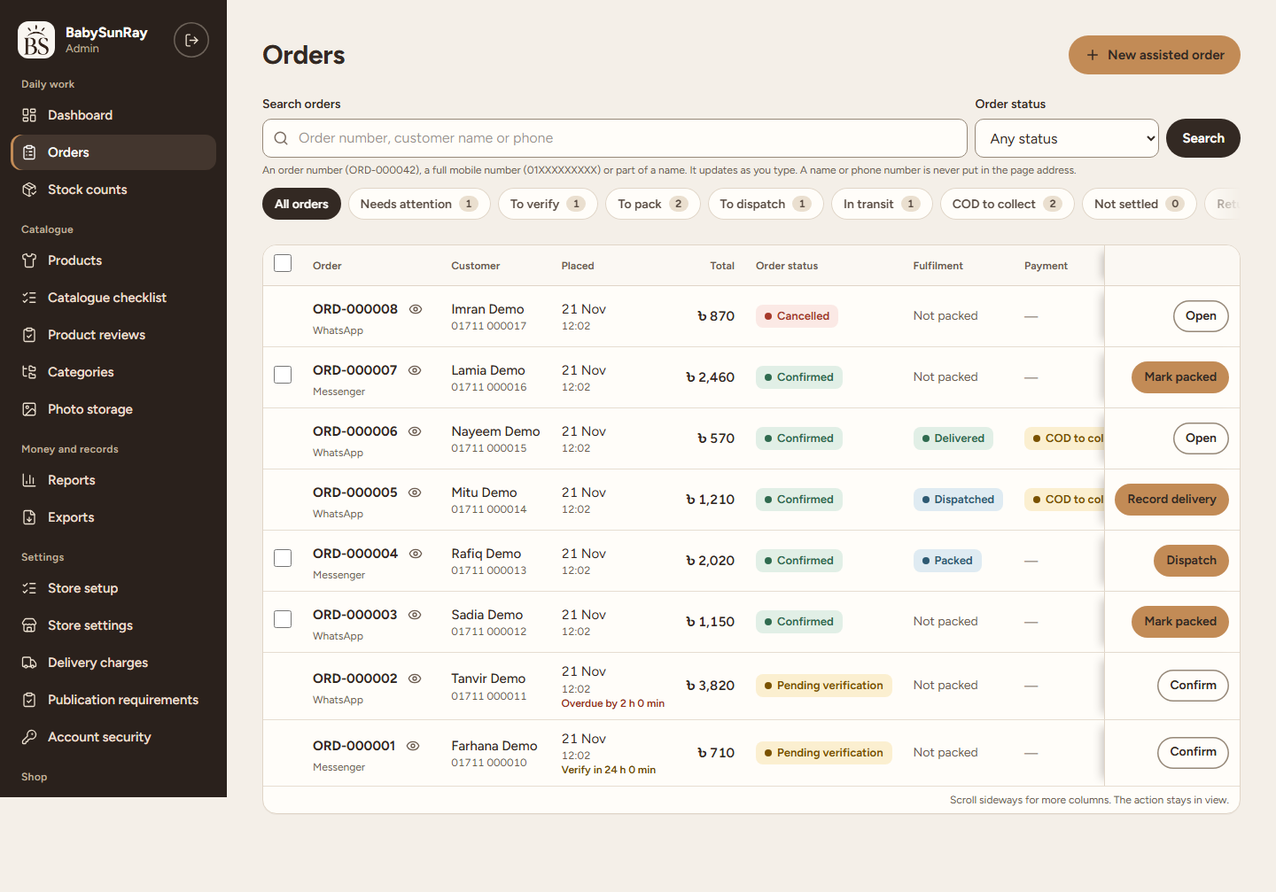
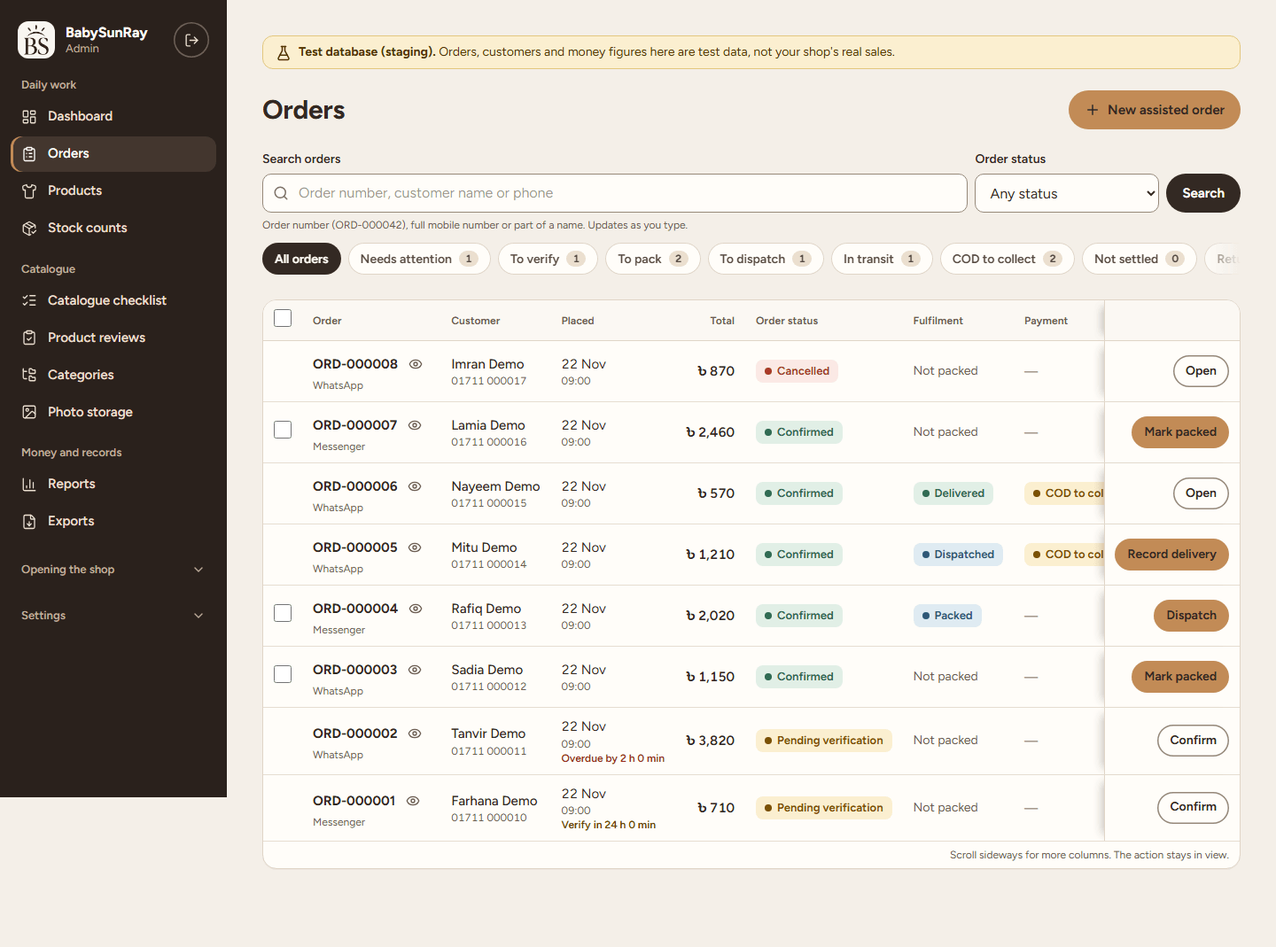
docs: README status and screenshots, verified hosting state, guides
README: refreshed screenshots from the browser tests (fictional data,
optimised from about 200 KB to 55-87 KB each), a clear status table (built,
on private staging, not public, not built) and plainer wording about
optional services. infrastructure.md: the verified Netlify staging state
replaces "nothing is deployed", with the old statement kept as a dated note.
CLAUDE.md: hosting facts, migration 0023, reports in English, and the
Windows drive-letter requirement for test:db. User guide, Admin reference
and design system: social links, the footer contact column and the
policies overview.

diff --git a/CLAUDE.md b/CLAUDE.md
@@ -2,9 +2,9 @@
 
 Bilingual (Bangla/English) e-commerce website and private BabySunRay Admin for BabySunray, a single-founder baby and kidswear business in Bangladesh.
 
-**Phase:** foundation and decisions. The Git repository is private on GitHub (`rkRashik/babysunray-commerce`, branch `main`). The Next.js app is scaffolded as an engineering base only; `src/app/page.tsx` is a status page, not the approved homepage. The catalogue and stock schema (`src/db/schema.ts`, migrations in `drizzle/`), their internal services (`src/modules/`), the authentication and authorisation foundation (`src/modules/auth`, Better Auth routes under `/api/auth`), operation-level idempotency (`src/modules/idempotency`, ADR-0005) and an Owner-only, Bearer-authenticated `/api/v1` with draft-catalogue and stock writes, body limits, no CORS and per-user rate limits (`src/api/v1`, `src/app/api/v1`, `docs/api/README.md`) exist, as does a minimal functional BabySunRay Admin at `/admin` (`src/app/admin`: sign-in, product search, products, variants, draft editing with optimistic versions, stock; Server Actions call the shared operations directly; not an approved design; real-browser tests in `tests/e2e`), as does a local-only Owner password reset CLI, and internal orders under the founder-approved rules in `docs/product/order-policy-decisions.md` (`src/modules/orders`: Owner-assisted orders, reservations, verification expiry, cancellation, fulfilment, COD, returns, RTO, guest tracking at `/track`; Owner API under `/api/v1/orders`; Admin at `/admin/orders`), and Owner operations (dashboard, reports, XLSX/CSV/JSON exports with an audit log, physical stock counts and print views: `src/modules/reports`, `src/modules/exports`, `src/modules/inventory/counts.ts`, `/admin/dashboard`, `/admin/reports`, `/admin/exports`, `/admin/stock-counts`, `/admin/print`) and local encrypted backup tooling with a restore drill on fictional data (`src/db/backup.mts`, `docs/operations/runbook.md`), and structured bilingual product content with categories, a size chart, an advisory readiness checklist and Owner-only product photos in a local development folder outside the repository (`src/modules/catalogue/content.ts`, `readiness.ts`, `src/modules/media`, ADR-0006), and an Owner-only bulk import of new draft products from CSV or XLSX (create-only, previewed, all or nothing; `docs/operations/catalogue-import.md`) with a catalogue preparation overview, and an Owner-only bilingual storefront preview with a cart and a checkout simulation that records nothing (`/admin/storefront-preview`, `src/modules/storefront`; prototype, not an approved design, not public), and per-installation shop identity settings with neutral defaults (`src/config/installation.ts`, `STORE_*`; `docs/operations/installation.md`), and the real shop at `/en` and `/bn` (published products only, the same First Light components as the preview) with a real guest Cash on Delivery checkout (`POST /api/shop/checkout`, transport `src/api/guest-checkout.ts`, service `src/modules/orders/guest-checkout.ts`; ADR-0007), browser installation (first Owner at `/admin/setup` with a setup grant, recovery codes at `/admin/recover`, a store setup checklist, store settings and Owner-approved publication requirements; ADR-0012, `docs/operations/installation-production.md`), customer accounts with Google or email and password (verification and reset by Resend email when `RESEND_API_KEY` and `EMAIL_FROM` are set) as a separate Better Auth instance (`src/modules/customers`, `/api/customer-auth`, callback `/api/auth/callback/google`), product publish and withdraw, and founder-approved policy publication, all reachable only through founder acceptance: an Owner-started pass on the staging-marked database (`src/modules/launch/acceptance.ts`, `/admin/acceptance`; ADR-0011, `docs/operations/acceptance.md`), a public launch gate that always refuses (`src/modules/launch/gate.ts`), Owner-only launch readiness, policy drafts and internal product reviews (`/admin/launch-readiness`, `/admin/policies`, `/admin/product-reviews`; `docs/operations/launch-readiness.md`), the First Light design, chosen by the founder for implementation (mobile first, Base UI sheets, Embla gallery, self-hosted OFL fonts, the installation's logo files in `public/brand/`; one design system across the Owner-only storefront preview, the guest tracking page and every BabySunRay Admin page; `docs/design/storefront-design-system.md`; open decisions in `docs/product/storefront-launch-decisions.md`), a backup-pair recovery check and a performance benchmark on fictional data (`docs/operations/performance.md`), and hosting-compatibility foundations that nothing uses yet (settings for serverless functions and a transaction-mode pooler, a Supabase Storage photo adapter, secret-protected HTTP maintenance that is off by default, liveness and readiness probes, a published-only photo transport at `/api/public/media/{id}`, open only with the shop (503 before any data is touched); `docs/operations/infrastructure.md`, tested locally and with mocks only), and Cloudinary CDN copies of published product photos only (inactive without `CLOUDINARY_*`; ADR-0010), and a hosted database security boundary with staging-only migration, backup and verification commands (ADR-0009, `docs/operations/staging-setup.md`). The site is deployed on Netlify behind visitor protection and connected to the staging database. Public (non-acceptance) checkout, online payments, courier or messaging integrations, production account recovery, 2FA, a production scheduler, a backup schedule or off-device copy, and a production database do not exist. The local databases are created by the founder from `db/local-setup.sql`. Do not create the rest unless the current gate authorises it.
+**Phase:** foundation and decisions. The Git repository is private on GitHub (`rkRashik/babysunray-commerce`, branch `main`). The Next.js app is scaffolded as an engineering base only; `src/app/page.tsx` is a status page, not the approved homepage. The catalogue and stock schema (`src/db/schema.ts`, migrations in `drizzle/`), their internal services (`src/modules/`), the authentication and authorisation foundation (`src/modules/auth`, Better Auth routes under `/api/auth`), operation-level idempotency (`src/modules/idempotency`, ADR-0005) and an Owner-only, Bearer-authenticated `/api/v1` with draft-catalogue and stock writes, body limits, no CORS and per-user rate limits (`src/api/v1`, `src/app/api/v1`, `docs/api/README.md`) exist, as does a minimal functional BabySunRay Admin at `/admin` (`src/app/admin`: sign-in, product search, products, variants, draft editing with optimistic versions, stock; Server Actions call the shared operations directly; not an approved design; real-browser tests in `tests/e2e`), as does a local-only Owner password reset CLI, and internal orders under the founder-approved rules in `docs/product/order-policy-decisions.md` (`src/modules/orders`: Owner-assisted orders, reservations, verification expiry, cancellation, fulfilment, COD, returns, RTO, guest tracking at `/track`; Owner API under `/api/v1/orders`; Admin at `/admin/orders`), and Owner operations (dashboard, reports, XLSX/CSV/JSON exports with an audit log, physical stock counts and print views: `src/modules/reports`, `src/modules/exports`, `src/modules/inventory/counts.ts`, `/admin/dashboard`, `/admin/reports`, `/admin/exports`, `/admin/stock-counts`, `/admin/print`) and local encrypted backup tooling with a restore drill on fictional data (`src/db/backup.mts`, `docs/operations/runbook.md`), and structured bilingual product content with categories, a size chart, an advisory readiness checklist and Owner-only product photos in a local development folder outside the repository (`src/modules/catalogue/content.ts`, `readiness.ts`, `src/modules/media`, ADR-0006), and an Owner-only bulk import of new draft products from CSV or XLSX (create-only, previewed, all or nothing; `docs/operations/catalogue-import.md`) with a catalogue preparation overview, and an Owner-only bilingual storefront preview with a cart and a checkout simulation that records nothing (`/admin/storefront-preview`, `src/modules/storefront`; prototype, not an approved design, not public), and per-installation shop identity settings with neutral defaults (`src/config/installation.ts`, `STORE_*`; `docs/operations/installation.md`), and the real shop at `/en` and `/bn` (published products only, the same First Light components as the preview) with a real guest Cash on Delivery checkout (`POST /api/shop/checkout`, transport `src/api/guest-checkout.ts`, service `src/modules/orders/guest-checkout.ts`; ADR-0007), browser installation (first Owner at `/admin/setup` with a setup grant, recovery codes at `/admin/recover`, a store setup checklist, store settings and Owner-approved publication requirements; ADR-0012, `docs/operations/installation-production.md`), customer accounts with Google or email and password (verification and reset by Resend email when `RESEND_API_KEY` and `EMAIL_FROM` are set) as a separate Better Auth instance (`src/modules/customers`, `/api/customer-auth`, callback `/api/auth/callback/google`), product publish and withdraw, and founder-approved policy publication, all reachable only through founder acceptance: an Owner-started pass on the staging-marked database (`src/modules/launch/acceptance.ts`, `/admin/acceptance`; ADR-0011, `docs/operations/acceptance.md`), a public launch gate that always refuses (`src/modules/launch/gate.ts`), Owner-only launch readiness, policy drafts and internal product reviews (`/admin/launch-readiness`, `/admin/policies`, `/admin/product-reviews`; `docs/operations/launch-readiness.md`), the First Light design, chosen by the founder for implementation (mobile first, Base UI sheets, Embla gallery, self-hosted OFL fonts, the installation's logo files in `public/brand/`; one design system across the Owner-only storefront preview, the guest tracking page and every BabySunRay Admin page; `docs/design/storefront-design-system.md`; open decisions in `docs/product/storefront-launch-decisions.md`), a backup-pair recovery check and a performance benchmark on fictional data (`docs/operations/performance.md`), and hosting-compatibility foundations that nothing uses yet (settings for serverless functions and a transaction-mode pooler, a Supabase Storage photo adapter, secret-protected HTTP maintenance that is off by default, liveness and readiness probes, a published-only photo transport at `/api/public/media/{id}`, open only with the shop (503 before any data is touched); `docs/operations/infrastructure.md`, tested locally and with mocks only), and Cloudinary CDN copies of published product photos only (inactive without `CLOUDINARY_*`; ADR-0010), and a hosted database security boundary with staging-only migration, backup and verification commands (ADR-0009, `docs/operations/staging-setup.md`). The site is deployed on Netlify behind visitor protection and connected to the staging database: the Netlify project's production and preview visibility is Private (Netlify team members only), its deploy logs are private, and only `main` deploys. Optional Facebook and Instagram links in Store settings need migration 0023 on each database; until a database has it, the Social links card says so and everything else works (`src/modules/settings/store.ts` checks the columns before reading them). Public (non-acceptance) checkout, online payments, courier or messaging integrations, production account recovery, 2FA, a production scheduler, a backup schedule or off-device copy, and a production database do not exist. The local databases are created by the founder from `db/local-setup.sql`. Do not create the rest unless the current gate authorises it.
 
-Commands (see docs/getting-started.md, section 6): `npm install`, `npm run dev`, `npm run typecheck`, `npm run lint`, `npm run build`, `npm test` (unit), `npm run test:db` (PostgreSQL integration; needs `TEST_DATABASE_URL`, local `babysunray_test` database and role only), `npm run db:generate`, `npm run db:check`, `npm run db:migrate` (only the local `babysunray_dev` database; it verifies the target and refuses anything else), `npm run test:contract` (OpenAPI validity and every `/api/v1` endpoint against it), `npm run test:e2e` (BabySunRay Admin in real Chromium against `babysunray_test`; starts its own server, never stops another), `npm run test:e2e:prod` (the same against a production build behind a local TLS proxy), `npm run test:install` (rehearses a separate, rebranded installation: a clean clone of the committed HEAD in a temporary folder, offline `npm ci`, its drills, a fresh `babysunray_test` schema and every browser test against its production build), `npm run backup:drill` (backup and restore drill on fictional data; empties and restores `babysunray_test` under the test lock), `npm run backup:create`, `npm run backup:verify` and `npm run backup:restore` (interactive passphrase; the founder runs them, never on their behalf; restore only into an empty `babysunray_restore`), `npm run config:check` (reports which settings are set and valid, database reachability and migrations; prints no values, changes nothing), `npm run auth:bootstrap-owner` (creates the first Owner; interactive, for the founder to run; never run it or choose credentials on the founder's behalf), `npm run auth:reset-owner-password` (local-only Owner password reset; same rule: the founder runs it, never on their behalf), `npm run orders:expire-verification` (local verification-expiry batch, `babysunray_dev` only), `npm run media:verify` (read-only check of the photo manifest against `MEDIA_STORAGE_DIR`), `npm run media:backup`, `npm run media:backup:verify` and `npm run media:restore` (encrypted photo backups; interactive passphrase; the founder runs them, never on their behalf; restore only into an empty folder), `npm run media:drill` (photo backup and restore drill on fictional photos in `babysunray_test`), `npm run recovery:check` (read-only check that a restored `babysunray_restore` matches a photo backup; interactive passphrases; the founder runs it, never on their behalf), `npm run perf:bench` (performance benchmark on fictional data in `babysunray_test` only), `npm run staging:preflight` (no network; which staging settings are missing, no values), `npm run staging:setup` (repairs `.env.staging.local` URL encoding and derives the project URL; hidden prompt for the Supabase keys; prints names only, no network), `npm run migrations:review [-- --after <n>]` (text-only check of drizzle/*.sql for non-additive statements; connects to nothing), `npm run backup:status -- --dir <folder> --max-age-hours <n>` (backup freshness from headers; no passphrase, deletes nothing), `npm run netlify:env -- --out <file> --url <https origin>` (writes the application's Netlify variables from the staging file as an importable .env: no administrator connection; prints names only; the founder deletes the file after import), `npm run db:migrate:staging`, `npm run backup:create:production`, `npm run db:migrate:production` (a database marked production only), `npm run auth:bootstrap-owner:staging`, `npm run backup:create:staging`, `npm run media:verify:staging`, `npm run media:backup:staging` and `npm run test:staging` (a hosted Supabase STAGING project only, marked by the founder; interactive or founder-configured; the founder runs them, never on their behalf; never read `.env.staging.local`; `docs/operations/staging-setup.md`). Never point tests at a development, shared or hosted database. Run migrations only through `npm run db:migrate`, never `drizzle-kit push`, `drizzle-kit migrate` or `auth migrate` (the project config refuses the drizzle-kit ones).
+Commands (see docs/getting-started.md, section 6): `npm install`, `npm run dev`, `npm run typecheck`, `npm run lint`, `npm run build`, `npm test` (unit), `npm run test:db` (PostgreSQL integration; needs `TEST_DATABASE_URL`, local `babysunray_test` database and role only; on Windows run it from a working directory spelled with an upper-case drive letter, `D:\…`: with `d:\…` Vitest loads twice and every file fails with "failed to find the runner"), `npm run db:generate`, `npm run db:check`, `npm run db:migrate` (only the local `babysunray_dev` database; it verifies the target and refuses anything else), `npm run test:contract` (OpenAPI validity and every `/api/v1` endpoint against it), `npm run test:e2e` (BabySunRay Admin in real Chromium against `babysunray_test`; starts its own server, never stops another), `npm run test:e2e:prod` (the same against a production build behind a local TLS proxy), `npm run test:install` (rehearses a separate, rebranded installation: a clean clone of the committed HEAD in a temporary folder, offline `npm ci`, its drills, a fresh `babysunray_test` schema and every browser test against its production build), `npm run backup:drill` (backup and restore drill on fictional data; empties and restores `babysunray_test` under the test lock), `npm run backup:create`, `npm run backup:verify` and `npm run backup:restore` (interactive passphrase; the founder runs them, never on their behalf; restore only into an empty `babysunray_restore`), `npm run config:check` (reports which settings are set and valid, database reachability and migrations; prints no values, changes nothing), `npm run auth:bootstrap-owner` (creates the first Owner; interactive, for the founder to run; never run it or choose credentials on the founder's behalf), `npm run auth:reset-owner-password` (local-only Owner password reset; same rule: the founder runs it, never on their behalf), `npm run orders:expire-verification` (local verification-expiry batch, `babysunray_dev` only), `npm run media:verify` (read-only check of the photo manifest against `MEDIA_STORAGE_DIR`), `npm run media:backup`, `npm run media:backup:verify` and `npm run media:restore` (encrypted photo backups; interactive passphrase; the founder runs them, never on their behalf; restore only into an empty folder), `npm run media:drill` (photo backup and restore drill on fictional photos in `babysunray_test`), `npm run recovery:check` (read-only check that a restored `babysunray_restore` matches a photo backup; interactive passphrases; the founder runs it, never on their behalf), `npm run perf:bench` (performance benchmark on fictional data in `babysunray_test` only), `npm run staging:preflight` (no network; which staging settings are missing, no values), `npm run staging:setup` (repairs `.env.staging.local` URL encoding and derives the project URL; hidden prompt for the Supabase keys; prints names only, no network), `npm run migrations:review [-- --after <n>]` (text-only check of drizzle/*.sql for non-additive statements; connects to nothing), `npm run backup:status -- --dir <folder> --max-age-hours <n>` (backup freshness from headers; no passphrase, deletes nothing), `npm run netlify:env -- --out <file> --url <https origin>` (writes the application's Netlify variables from the staging file as an importable .env: no administrator connection; prints names only; the founder deletes the file after import), `npm run db:migrate:staging`, `npm run backup:create:production`, `npm run db:migrate:production` (a database marked production only), `npm run auth:bootstrap-owner:staging`, `npm run backup:create:staging`, `npm run media:verify:staging`, `npm run media:backup:staging` and `npm run test:staging` (a hosted Supabase STAGING project only, marked by the founder; interactive or founder-configured; the founder runs them, never on their behalf; never read `.env.staging.local`; `docs/operations/staging-setup.md`). Never point tests at a development, shared or hosted database. Run migrations only through `npm run db:migrate`, never `drizzle-kit push`, `drizzle-kit migrate` or `auth migrate` (the project config refuses the drizzle-kit ones).
 
 ## Project goals (founder-confirmed; requirements B-8 to B-13)
 
@@ -79,4 +79,4 @@ Run the checks that exist (`npm run typecheck`, `npm run lint`, `npm run build`;
 
 ## Language
 
-Documents and code: English. Reports to the founder: concise Bangla with English technical terms.
+Documents and code: English. Reports to the founder: concise English (the founder's preference since 2026-11-22). Customer-facing shop text stays bilingual, English and Bangla.

diff --git a/README.md b/README.md
@@ -14,9 +14,11 @@ English · বাংলা · Cash on delivery · Built for phones first
 
 ## About
 
-BabySunRay is a complete online shop for a small clothing business. Shoppers browse in English or বাংলা, check the size chart, and order with cash on delivery, with no account needed. The owner runs everything from a single Admin: products, stock, orders, cash-on-delivery money, returns, printed slips and reports.
+BabySunRay is an online shop and back office for a small clothing business. Shoppers browse in English or বাংলা, check the size chart, and order with cash on delivery, with no account needed. The owner runs everything from one Admin: products, stock, orders, cash-on-delivery money, returns, printed slips and reports.
 
-It was built for how small shops in Bangladesh actually work: orders arrive from the website, Messenger and WhatsApp; every order is confirmed by phone; and cash moves from customer to courier to shop in separate steps that all need tracking.
+It was built for how small shops in Bangladesh actually work: orders arrive from the website, Messenger and WhatsApp; every order is confirmed by phone before it is packed; and cash moves from customer to courier to shop in separate steps that each need recording.
+
+> **Not open to the public yet.** The shop runs on a private test site that only the owner's team can open. Public checkout stays switched off until the owner approves the store's policies and the launch.
 
 ## Preview
 
@@ -28,7 +30,7 @@ It was built for how small shops in Bangladesh actually work: orders arrive from
 |---|---|
 | ![Orders](docs/images/orders.png) | ![Reports](docs/images/reports.png) |
 
-<sub>Screenshots use made-up test data.</sub>
+<sub>Screenshots come from the automated browser tests and use made-up products and customers. The products have no photos, so the shop shows its "No photo yet" state.</sub>
 
 ## Features
 
@@ -39,6 +41,7 @@ It was built for how small shops in Bangladesh actually work: orders arrive from
 - **Cash on delivery:** the delivery charge is shown before ordering, and no card or account is needed.
 - **Optional account:** sign up with email or Google to see past orders.
 - **Order tracking:** a private link for each order, with self-cancel while it's still waiting for the shop's call.
+- **Easy to reach the shop:** the footer lists only the contact channels the owner has set: phone, email, WhatsApp, Messenger, Facebook and Instagram.
 
 ### For the shop owner
 
@@ -48,7 +51,8 @@ It was built for how small shops in Bangladesh actually work: orders arrive from
 - **Honest stock:** items are held when an order arrives and leave stock only when the parcel is sent. Physical stock counts are built in.
 - **Cash on delivery tracking:** collected, settled and courier fees are recorded separately, with a reconciliation check.
 - **Returns:** returned items wait for inspection before they can be sold again.
-- **Reports and records:** period reports, Excel/CSV exports, and A4 picking lists and shipping slips.
+- **Reports and records:** period reports that keep order activity apart from money actually collected, Excel/CSV exports, and A4 picking lists and shipping slips.
+- **Shop set-up:** store details, logo, contact and social links, delivery charges, bilingual policy drafts and a launch-readiness checklist, all without touching code.
 
 ## How an order flows
 
@@ -69,7 +73,8 @@ Late orders (past 24 hours) can still be confirmed: stock is checked again first
 | **Data** | PostgreSQL, Drizzle ORM |
 | **Sign-in** | Better Auth (email, password and Google) |
 | **Design** | Tailwind CSS, with a custom design system called "First Light" |
-| **Email and images** | Resend, Cloudinary |
+| **Optional services** | Resend for account emails, Cloudinary for published photos (each off until configured) |
+| **Hosting (staging)** | Netlify, private to the owner's team; PostgreSQL on Supabase |
 | **Testing** | Vitest, Playwright, axe-core |
 
 One application with no separate backend. The website and the `/api/v1` API share the same business rules, so future mobile apps can use them too.
@@ -94,7 +99,12 @@ Full setup, configuration and testing: **[developer docs](docs/README.md)**.
 
 ## Status
 
-Built and running on a protected test site, with the public launch still to come. Online card payments and automatic courier links are planned for later.
+| | |
+|---|---|
+| **Built and tested** | The shop, guest checkout with cash on delivery, customer accounts, order tracking, and the whole Admin, with unit, database and browser tests |
+| **Running on staging** | A private Netlify site on a test database, where the owner rehearses real orders through "founder acceptance" |
+| **Not public yet** | Public checkout is closed until the owner approves the delivery, return and privacy policies and the launch |
+| **Not built** | Online card or mobile-wallet payments, courier integrations, automatic messages to customers, and an AI shopping assistant |
 
 ---
 

diff --git a/docs/guides/admin-panel.md b/docs/guides/admin-panel.md
@@ -11,7 +11,7 @@ A functional internal area at `/admin` (`src/app/admin`), built with the Next.js
 | `/admin/setup` | First-time setup: the first Owner, with the setup grant (ADMIN_SETUP_TOKEN) and recovery codes; closed once an Owner exists | none (grant) |
 | `/admin/recover` | Set a new password with a recovery code | none (code) |
 | `/admin/onboarding` | Store setup checklist | `settings:write` |
-| `/admin/settings/store` | Store details shown as text until **Edit details** (then the form with Save changes and Cancel; Cancel and leaving the page ask first once something is typed); the logo in use and its source, **Replace logo** (file picker with preview and type and size checks before upload, Save logo, Cancel; a file the server refuses leaves the logo unchanged; removing an uploaded logo asks first); customer account emails: what they are, whether the email settings are present and valid (set up, not set up, settings incomplete; setting names only, never values) and that delivery is not checked by Admin | `settings:write` |
+| `/admin/settings/store` | Store details shown as text until **Edit details** (then the form with Save changes and Cancel; Cancel and leaving the page ask first once something is typed); social links (optional Facebook page and Instagram profile, https links to those sites only, shown in the shop footer; the card says the database needs migration 0023 until the columns exist, and nothing else on the page depends on them); the logo in use and its source, **Replace logo** (file picker with preview and type and size checks before upload, Save logo, Cancel; a file the server refuses leaves the logo unchanged; removing an uploaded logo asks first); customer account emails: what they are, whether the email settings are present and valid (set up, not set up, settings incomplete; setting names only, never values) and that delivery is not checked by Admin | `settings:write` |
 | `/admin/settings/publication` | Approve the publication requirements (I-6) | `catalog:publish`, `settings:write` |
 | `/admin/settings/security` | Recovery codes left; make new ones | any Owner |
 | `/admin` | Products (draft, published, archived), oldest first, 25 per page, as a table (a compact list on a phone) with the first photo, both names, status, category, active-SKU price range, available units and a readiness indicator (what publishing still needs under the rule that applies); search by English or Bangla name, slug or SKU; filters for status, category, stock and what is still missing, applied as they change and kept in the URL (category, stock and still missing behind a More filters panel that opens while one is in use; each filter in use is a removable chip); stock for sale and stock on hand shown separately (an archived product is "not for sale"); on a desktop screen draft products can be selected to apply a category or archive them together (per product, one result each); the Edit or View button is always in view | `catalog:read` |
@@ -33,7 +33,7 @@ A functional internal area at `/admin` (`src/app/admin`), built with the Next.js
 | `/admin/print/...` | A4 print views: picking list, COD summary, stock count sheet (no contact details), one order's packing and shipping document | `orders:read`, `reports:read` or `stock:read` |
 | `/admin/media-health` | Photo folder against the photo records ([product-photos.md](product-photos.md)) | `catalog:read` |
 | `/admin/storefront-preview` | The private storefront preview with drafts and a simulated checkout ([storefront-preview.md](storefront-preview.md)) | `storefront:preview` |
-| `/admin/policies` | Policy drafts in English and Bangla; publish a reviewed version to customers (with your explicit approval) or withdraw it ([launch-readiness.md](../operations/launch-readiness.md), section 3) | `policies:read`; changes `policies:write`; publish `policies:publish` |
+| `/admin/policies` | An overview of the four policies with their state, then one policy at a time (`?policy=`; by default the first whose current wording is not published; saving returns to it): drafts in English and Bangla; publish a reviewed version to customers (with your explicit approval) or withdraw it ([launch-readiness.md](../operations/launch-readiness.md), section 3) | `policies:read`; changes `policies:write`; publish `policies:publish` |
 | `/admin/acceptance` | Founder acceptance: whether it can run here (staging database, update 0020), start or end it in this browser, links into the real shop ([acceptance.md](../operations/acceptance.md)) | `acceptance:run` |
 | `/admin/launch-readiness` | What blocks a public shop, with live checks (a count of the blockers, and of each section's checks by status; no score) ([launch-readiness.md](../operations/launch-readiness.md), section 2) | `launch:read` |
 

diff --git a/docs/design/storefront-design-system.md b/docs/design/storefront-design-system.md
@@ -54,7 +54,7 @@ Shape and space: pills for buttons, chips and steppers; 16 px corners for size a
 
 ## 4. Components
 
-Storefront (`src/app/admin/storefront-preview/_components/`): `header.tsx` and `header-client.tsx` (logo, language switch, desktop navigation and search, bag with a count that bumps when it grows, search sheet, and the phone tab bar: Home, Shop, Search, Bag, My order), `parts.tsx` (arch photo, product card with tint, grid and rail, section heading, trust lines, how to order, preview strip, footer), `gallery.tsx`, `variant-picker.tsx`, `cart-view.tsx`, `checkout-form.tsx`, `sheet.tsx`, `filter-sheet.tsx`, `no-photo.tsx`, `frame.tsx`. Shared: `src/app/_design/` (fonts, logo, ray mark).
+Storefront (`src/app/admin/storefront-preview/_components/`): `header.tsx` and `header-client.tsx` (logo, language switch, desktop navigation and search, bag with a count that bumps when it grows, search sheet, and the phone tab bar: Home, Shop, Search, Bag, My order), `parts.tsx` (arch photo, product card with tint, grid and rail, section heading, trust lines, how to order, preview strip, footer: brand and store line, shop links, delivery and payment, and a Contact column listing only the channels set in Store settings (phone and email as tel: and mailto: links, WhatsApp, Messenger, Facebook, Instagram), each with a text label beside its icon and no third-party script), `gallery.tsx`, `variant-picker.tsx`, `cart-view.tsx`, `checkout-form.tsx`, `sheet.tsx`, `filter-sheet.tsx`, `no-photo.tsx`, `frame.tsx`. Shared: `src/app/_design/` (fonts, logo, ray mark).
 
 Admin (`src/app/admin/_components/`): `shell.tsx` (cocoa sidebar grouped as Daily work, Catalogue, Money and records, then Opening the shop and Settings, which fold (native `details`) unless the current page is in them; on a phone a bottom bar and a Menu of every page in two columns; a "Test database (staging)" notice on a staging-marked database; page title with actions; notices; `Section` cards), `action-form.tsx` (fields capped at a readable width, choices as pills, the amber submit, Cancel beside it inside an editable section), `editable-section.tsx` (a settings card that shows saved values as text until Edit; Cancel and leaving ask before typed changes are lost; used where settings are stable and rarely changed, not on operational forms such as orders, stock or variants), `file-picker.tsx` (the file input drawn as a drop area with the real input transparent over it, file name and size, an image preview and type and size checks before upload; a submit button that sends a plain upload form once), `content.tsx` (readiness checklist with progress), `panel.tsx` (an action panel: a less frequent form behind a button-like native `details` summary, so a page that is mostly read is not a wall of forms), `stat.tsx` (a figure with its meaning in one line, so expected money is not read as received or on-hand units as sellable), `copy-button.tsx` (copies a value on the page, such as an address for the courier), and the `.of-split` (work left, reference details right; one column in reading order on a phone) and `.of-timeline` classes; `orders/_components/labels.tsx` (status pills: amber waiting, green done, blue moving, red off the normal path, quiet otherwise; the four order dimensions side by side, never merged; order history in plain words).
 

diff --git a/docs/operations/infrastructure.md b/docs/operations/infrastructure.md
@@ -2,7 +2,9 @@
 
 **Status:** Draft — Founder Review. **Purpose:** What the backend supports for a hosted installation (a Vercel-compatible Node deployment with Supabase PostgreSQL and Supabase Storage), the settings it takes, what is verified and what is not, and what the founder must set up by hand. Built in Gate H.44; audited and corrected in Gate H.45 (database exposure, pool design, Storage contract, staging tooling).
 
-**Nothing is deployed and no hosting is chosen** (requirements C-1 to C-3, open decision 1, G-8). No Vercel or Supabase project, account, bucket or credential exists, and no test used one: everything below was verified against local PostgreSQL, mocked HTTP and unit tests. Whether a given plan may be used commercially, and at what cost, is a founder decision; see the plan terms (Vercel's Hobby plan is non-commercial: [terms](https://vercel.com/legal/terms), checked 2026-11-17). The launch gate stays closed and no product can be published.
+**Current state (checked 2026-11-22).** A protected **staging** installation runs on Netlify: one project, linked to this repository, that deploys only `main` (production branch `main`, branch deploys off, build `npm run build`). Its production and Deploy Preview visibility is **Private**, so only members of the founder's Netlify team can open it; a visitor without that sign-in gets HTTP 401 on every path, the shop, Admin and the health probes included. Deploy logs are private. It uses the staging-marked database (Admin shows the "Test database (staging)" notice), and the launch gate stays closed. **Production hosting and the production database are still not chosen** (requirements C-1 to C-3, open decision 1, G-8); nothing here is a production deployment. Netlify's free plan gives no password protection; the protection is the project's Private visibility.
+
+Historical note (Gate H.44, 2026-11-17): when this document was written nothing was deployed, and everything below was verified against local PostgreSQL, mocked HTTP and unit tests. Whether a given plan may be used commercially, and at what cost, is a founder decision; see the plan terms (Vercel's Hobby plan is non-commercial: [terms](https://vercel.com/legal/terms), checked 2026-11-17).
 
 ## 1. The three ways to run it
 

diff --git a/docs/user-guide.md b/docs/user-guide.md
@@ -352,10 +352,10 @@ Do these once, from **Settings → Store setup** (it shows a checklist):
 
 | Setting | Why |
 |---|---|
-| **Store settings** | Your shop's name, short description, contact numbers and logo |
+| **Store settings** | Your shop's name, short description, contact details, social links and logo |
 | **Delivery charges** | The charge for Dhaka City and Outside Dhaka. Orders can't be taken without them |
 | **Categories** | e.g. Rompers, Sets, Accessories |
-| **Policies** | Your delivery, return and privacy policies, in English and Bangla |
+| **Policies** | Your delivery, return and privacy policies, in English and Bangla. The page starts with all four policies and their state; choose one to write, review or publish it |
 | **Publication requirements** | What every product must have before customers can see it |
 | **Account security** | Recovery codes |
 
@@ -368,6 +368,12 @@ Do these once, from **Settings → Store setup** (it shows a checklist):
 1. Press **Edit details** (or **Change charge** for a delivery zone).
 2. Change what you need, then press **Save changes** (**Save charge**). A green message confirms it was saved, and the page shows the saved values again.
 3. Changed your mind? Press **Cancel**. If you had typed something, you are asked first whether to discard it. Leaving the page with unsaved changes also asks first.
+
+### Social links
+
+The **Social links** card holds your Facebook page and Instagram profile. Press **Edit social links**, paste the full address of each (for example `https://www.facebook.com/yourpage`), and press **Save social links**. Both are optional: the shop's footer shows only the ones you fill in, next to your phone, email, WhatsApp and Messenger. To remove one, empty the field and save.
+
+If the card says the database needs its latest update, the links cannot be saved yet; everything else works as usual. Whoever looks after your website applies the update (migration 0023).
 
 ### Your logo
 
